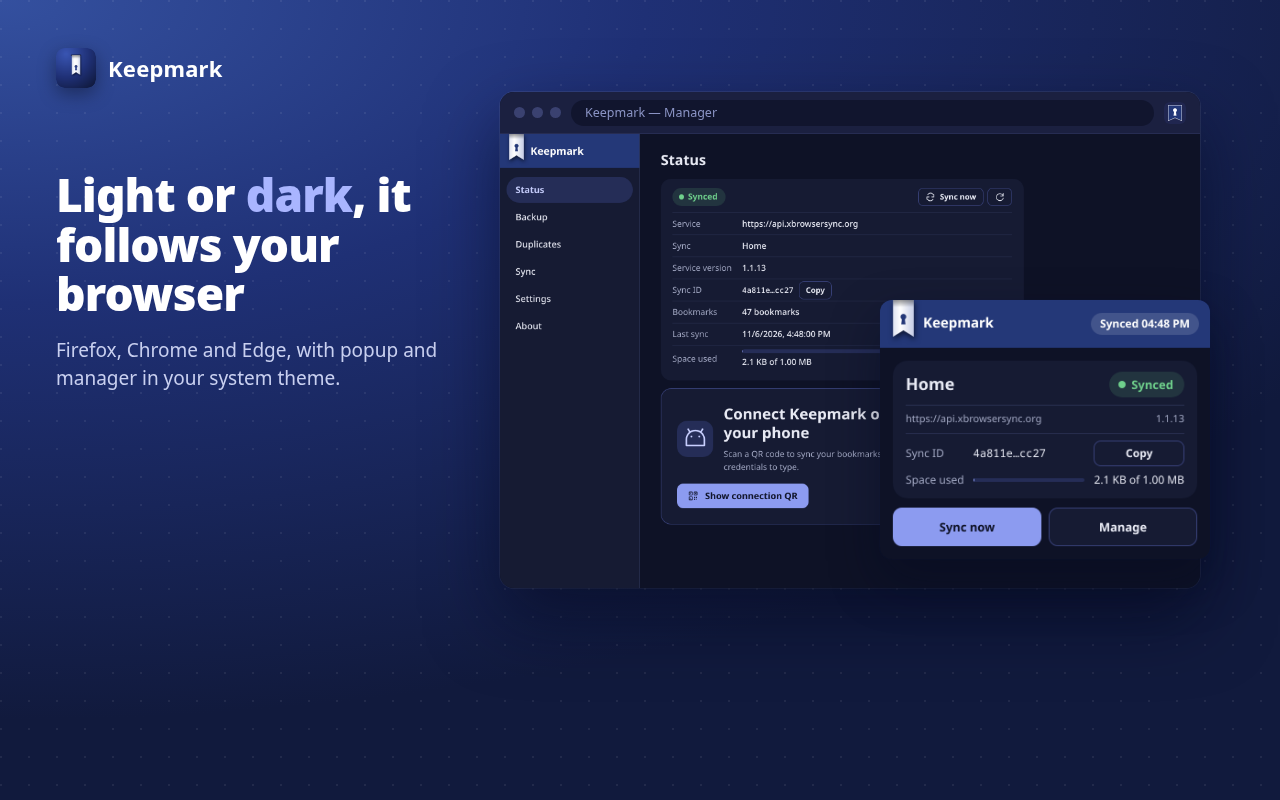
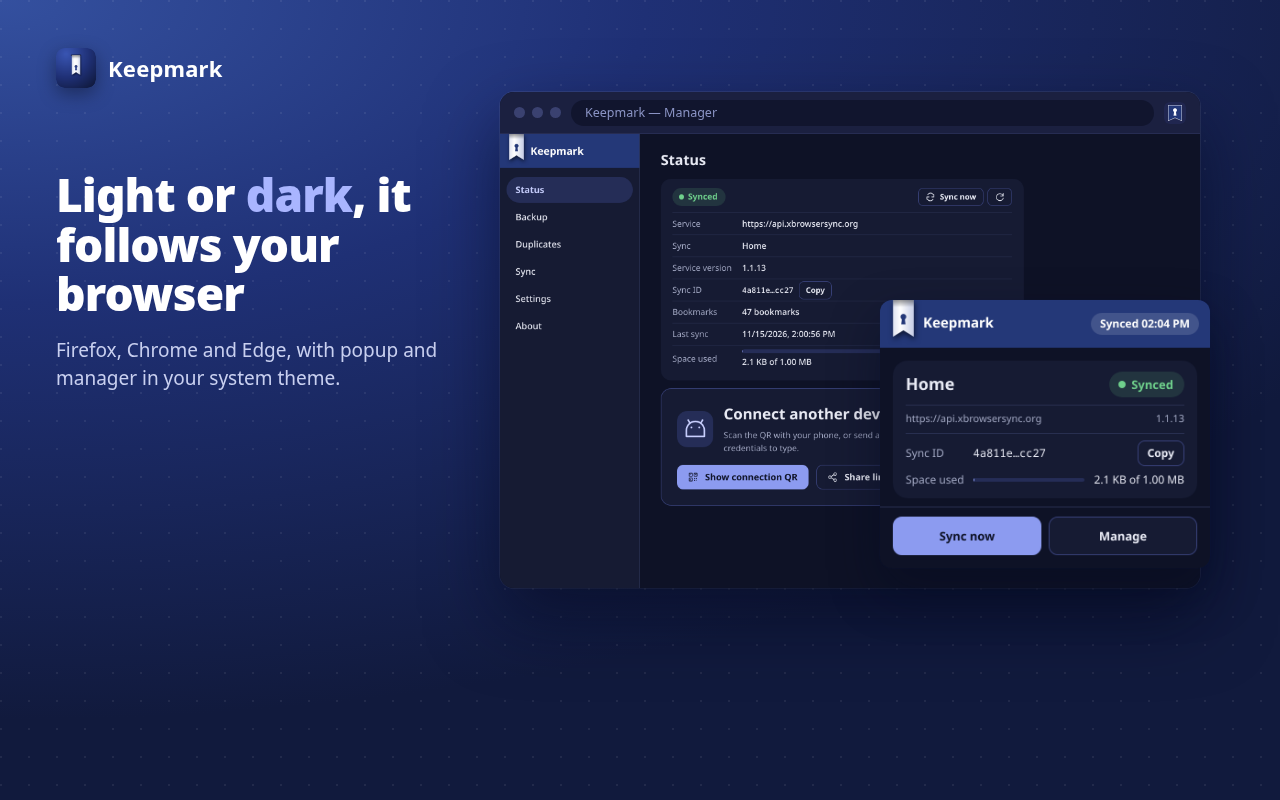
Docs and screenshots: shared links, one-time links, new connect paths; fix QR scan hint

diff --git a/src/shared/i18n/ru.ts b/src/shared/i18n/ru.ts
@@ -3,7 +3,7 @@ import type { MessageKey } from './en.js';
 // Plurals: tn() maps every non-"one" Russian form (few, many) to `_other`,
 // so `_other` texts use count-neutral phrasing ("Закладок: {count}").
 export const ru: Record<MessageKey, string> = {
-  'qr.scan': "В Keepmark для Android откройте Подключение → Существующая синхронизация → Сканировать QR из браузера.",
+  'qr.scan': "В Keepmark для Android откройте Подключение → У меня есть ссылка → Сканировать QR из браузера.",
   'qr.hidden': "QR-код скрыт.",
   'qr.title': "Подключите Keepmark на телефоне",
   'qr.explanation': "QR-код содержит сервис, ID синхронизации и ключ синхронизации (не ваш пароль). Любой, у кого есть копия, может читать и изменять эти закладки. Он скрывается через 60 секунд или когда вы покидаете этот экран. Установите блокировку синхронизации, чтобы сначала запрашивался пароль.",

diff --git a/src/shared/i18n/ja.ts b/src/shared/i18n/ja.ts
@@ -1,7 +1,7 @@
 import type { MessageKey } from './en.js';
 
 export const ja: Record<MessageKey, string> = {
-  'qr.scan': "Android 版 Keepmark で「接続」→「既存の同期」→「ブラウザーの QR をスキャン」を開いてください。",
+  'qr.scan': "Android 版 Keepmark で「接続」→「共有リンクがある」→「ブラウザーのQRを読み取る」を開いてください。",
   'qr.hidden': "QR を非表示にしました。",
   'qr.title': "スマートフォンの Keepmark を接続",
   'qr.explanation': "QR にはサービス、同期 ID、同期キー（パスワードではありません）が含まれます。コピーを持つ人はこのブックマークを読み取り、変更できます。60 秒後、またはこの画面を離れると非表示になります。先にパスワードを求めるには同期ロックを設定してください。",

diff --git a/src/shared/i18n/ro.ts b/src/shared/i18n/ro.ts
@@ -4,7 +4,7 @@ import type { MessageKey } from './en.js';
 // Plural forms: `Intl.PluralRules('ro')` gives one/few/other and the app maps
 // few+other to `_other`, so `_other` is the plain plural ("2 marcaje").
 export const ro: Record<MessageKey, string> = {
-  'qr.scan': 'În Keepmark pentru Android, deschide Conectare → Sincronizare existentă → Scanează QR din browser.',
+  'qr.scan': "În Keepmark pentru Android, deschide Conectare → Am un link partajat → Scanează QR din browser.",
   'qr.hidden': "Cod QR ascuns.",
   'qr.title': 'Conectează Keepmark pe telefon',
   'qr.explanation': "Codul QR conține serviciul, ID-ul sincronizării și cheia sincronizării (nu parola ta). Oricine are o copie poate citi și modifica aceste marcaje. Este ascuns după 60 de secunde sau când părăsești această vizualizare. Setează o blocare a sincronizării ca să se ceară mai întâi o parolă.",

diff --git a/src/shared/i18n/zh.ts b/src/shared/i18n/zh.ts
@@ -2,7 +2,7 @@ import type { MessageKey } from './en.js';
 
 // Simplified Chinese (zh-CN); also served to zh-TW/zh-HK until a Traditional catalog exists.
 export const zh: Record<MessageKey, string> = {
-  'qr.scan': "在 Android 版 Keepmark 中打开「连接」→「现有同步」→「扫描浏览器二维码」。",
+  'qr.scan': "在 Android 版 Keepmark 中打开「连接」→「我有共享链接」→「扫描浏览器中的二维码」。",
   'qr.hidden': "二维码已隐藏。",
   'qr.title': "连接手机上的 Keepmark",
   'qr.explanation': "二维码包含服务、同步 ID 和同步密钥（不是你的密码）。任何拥有副本的人都能读取和修改这些书签。60 秒后或离开此视图时会隐藏。设置同步锁可在显示前先要求输入密码。",

diff --git a/src/shared/i18n/fr.ts b/src/shared/i18n/fr.ts
@@ -1,7 +1,7 @@
 import type { MessageKey } from './en.js';
 
 export const fr: Record<MessageKey, string> = {
-  'qr.scan': "Dans Keepmark pour Android, ouvrez Connecter → Synchronisation existante → Scanner le QR du navigateur.",
+  'qr.scan': "Dans Keepmark pour Android, ouvrez Connecter → J'ai un lien partagé → Scanner le QR du navigateur.",
   'qr.hidden': "QR masqué.",
   'qr.title': "Connectez Keepmark sur votre téléphone",
   'qr.explanation': "Le QR contient le service, l'ID de synchronisation et la clé de la synchronisation (pas ton mot de passe). Quiconque en a une copie peut lire et modifier ces favoris. Il est masqué après 60 secondes ou quand tu quittes cette vue. Définis un verrou des syncs pour demander d'abord un mot de passe.",

diff --git a/src/shared/i18n/de.ts b/src/shared/i18n/de.ts
@@ -1,7 +1,7 @@
 import type { MessageKey } from './en.js';
 
 export const de: Record<MessageKey, string> = {
-  'qr.scan': "Öffne in Keepmark für Android Verbinden → Bestehende Synchronisierung → QR vom Browser scannen.",
+  'qr.scan': "Öffne in Keepmark für Android Verbinden → Ich habe einen geteilten Link → QR vom Browser scannen.",
   'qr.hidden': "QR ausgeblendet.",
   'qr.title': "Verbinde Keepmark auf deinem Smartphone",
   'qr.explanation': "Der QR enthält Dienst, Sync-ID und den Sync-Schlüssel (nicht dein Passwort). Wer eine Kopie hat, kann diese Lesezeichen lesen und ändern. Er wird nach 60 Sekunden oder beim Verlassen dieser Ansicht ausgeblendet. Richte eine Sync-Sperre ein, um vorher ein Passwort abzufragen.",

diff --git a/src/shared/i18n/es.ts b/src/shared/i18n/es.ts
@@ -1,7 +1,7 @@
 import type { MessageKey } from './en.js';
 
 export const es: Record<MessageKey, string> = {
-  'qr.scan': "En Keepmark para Android, abre Conectar → Sincronización existente → Escanear QR del navegador.",
+  'qr.scan': "En Keepmark para Android, abre Conectar → Tengo un enlace compartido → Escanear QR del navegador.",
   'qr.hidden': "QR oculto.",
   'qr.title': "Conecta Keepmark en tu teléfono",
   'qr.explanation': "El QR contiene el servicio, el ID de sincronización y la clave de la sincronización (no tu contraseña). Quien tenga una copia puede leer y cambiar estos marcadores. Se oculta tras 60 segundos o al salir de esta vista. Configura un bloqueo de sync para pedir antes una contraseña.",

diff --git a/src/shared/i18n/pt.ts b/src/shared/i18n/pt.ts
@@ -1,7 +1,7 @@
 import type { MessageKey } from './en.js';
 
 export const pt: Record<MessageKey, string> = {
-  'qr.scan': "No Keepmark para Android, abra Conectar → Sincronização existente → Ler QR do navegador.",
+  'qr.scan': "No Keepmark para Android, abra Conectar → Tenho um link compartilhado → Ler QR do navegador.",
   'qr.hidden': "QR oculto.",
   'qr.title': "Conecte o Keepmark no seu celular",
   'qr.explanation': "O QR contém o serviço, o ID de sincronização e a chave da sincronização (não a sua senha). Quem tiver uma cópia pode ler e alterar estes favoritos. Ele some após 60 segundos ou quando você sai desta tela. Defina um bloqueio de sync para pedir uma senha antes.",

diff --git a/src/shared/i18n/en.ts b/src/shared/i18n/en.ts
@@ -1,7 +1,7 @@
 // English catalog: source of truth for keys. Other languages must match
 // keys and {placeholders} exactly (tests/i18n.test.ts).
 export const en = {
-  'qr.scan': "In Keepmark for Android, open Connect → Existing sync → Scan QR from browser.",
+  'qr.scan': "In Keepmark for Android, open Connect → I have a shared link → Scan QR from browser.",
   'qr.hidden': "QR hidden.",
   'qr.title': "Connect Keepmark on your phone",
   'qr.explanation': "The QR contains your service, sync ID and the sync key (not your password). Anyone with a copy can read and change these bookmarks. It is hidden after 60 seconds or when you leave this view. Set a sync lock to ask a password first.",

diff --git a/src/shared/i18n/it.ts b/src/shared/i18n/it.ts
@@ -1,7 +1,7 @@
 import type { MessageKey } from './en.js';
 
 export const it: Record<MessageKey, string> = {
-  'qr.scan': "In Keepmark per Android, apri Collega → Sincronizzazione esistente → Scansiona QR dal browser.",
+  'qr.scan': "In Keepmark per Android, apri Collega → Ho un link condiviso → Scansiona QR dal browser.",
   'qr.hidden': "QR nascosto.",
   'qr.title': "Collega Keepmark sul tuo telefono",
   'qr.explanation': "Il QR contiene servizio, ID e chiave del sync (non la password). Chi ne ha una copia può leggere e modificare questi preferiti. Scompare dopo 60 secondi o quando lasci questa vista. Imposta un blocco sync per chiedere prima una password.",

diff --git a/README.md b/README.md
@@ -133,12 +133,12 @@ password and bookmarks, exactly one is active, and switching is a click.
 Already syncing on Android and want the phone on the same sync? The manager
 hands the credentials over in one scan, without typing them anywhere:
 
-1. In the manager, the Android card says **Connect Keepmark on your phone**.
-   Choose **Show connection QR**. The QR appears at once; if you set a sync
+1. In the manager, **Status → Connect another device**: choose **Show
+   connection QR**. The QR appears at once; if you set a sync
    lock, enter its password first.
-2. In Keepmark for Android, open **Connect → Existing sync → Scan QR from
-   browser**.
-3. Review the service the phone shows, tap **Connect**, then pick the direction
+2. In Keepmark for Android, open **Connect → I have a shared link → Scan QR
+   from browser** (**Syncs → + Add a sync** when a sync is already active).
+3. Review the service the phone shows, tap **Continue**, then pick the direction
    (keep the server copy, merge, or keep the phone's copy).
 
 The QR carries the service, the sync ID and the sync's derived key, never the
@@ -151,16 +151,28 @@ wizard the same QR button sits before the manual target credentials.
 
 ## Share a sync with a link
 
-To give someone else (or a device without a camera) access to a sync, use the
-share icon next to **Show QR** in **Sync**. After the sync lock password, if
-you set one, the manager shows a `keepmark://sync?…` link with **Copy**. The
-other person pastes it in **Existing sync** (popup) or **+ Add a sync → An
-existing sync** (manager), or in Keepmark for Android: no password to type.
+To give someone else (or a device without a camera) access to a sync, use
+**Status → Connect another device → Share link**, or the share icon next to
+**Show QR** on any row in **Sync**. After the sync lock password, if you set
+one, the manager shows a `keepmark://sync?…` link with **Copy**. The other
+person pastes it in **I have a shared link** (popup **Connect**, or manager
+**Sync → + Add a sync**), or in Keepmark for Android: no password to type. The
+summary that replaces the field names the service and sync ID the link
+brought; they cannot be edited, and **Use another link** clears it.
 
-Like the QR, the link carries the service, the sync ID and the sync key, never
-the password. Unlike the QR it does not expire: anyone holding it can read and
-change those bookmarks until the sync password is changed, so send it only to
-people you trust.
+**One-time links.** When the sync's service supports them (Keepmark sync
+service 1.2.1 or later), the link works once: choose 10 minutes or 1 hour, and
+optionally a 6-digit code to pass on separately. **Revoke link** cancels it
+before it is used. The receiver sees the service first and only **Open link**
+uses it up; after that, **Use another link** asks before dropping the key,
+because the link cannot be opened again. Other services get the lasting link
+with a notice.
+
+The lasting link, like the QR, carries the service, the sync ID and the sync
+key, never the password. Unlike the QR it does not expire: anyone holding it
+can read and change those bookmarks until the sync password is changed, so send
+it only to people you trust. A one-time link carries only a random secret: the
+key travels encrypted on the service, which cannot read it.
 
 ## Screenshots
 

diff --git a/docs/UI-TERMS.md b/docs/UI-TERMS.md
@@ -12,7 +12,7 @@ Both apps use the same words for the same things. Keep this file identical in
 | Local bookmarks / this device | The bookmarks in this browser or app | native bookmarks, local tree, local side |
 | Item(s) | Bookmarks + folders + separators (counts) | nodes |
 | Connect | Link this device to a new or existing sync | |
-| New sync / Existing sync | The two connect modes | Use existing, … here |
+| I have a shared link / I have the sync ID and password / Create a new sync | The three connect choices | Existing sync, Use existing, … here |
 | Syncs | The list of saved syncs on this device (manager Sync section, popup card) | saved syncs, saved list, registry |
 | Add a sync (`+ Add a sync`) | Link this device to a new or existing sync without losing the current one (extension: final button `Connect`, result `Sync linked`; Android: direction review with `Continue`, then `Connect and use the server copy` / `Connect and merge` / `Connect and use this device`, restating the outcome); Android offers only an existing sync while linked, the extension also creates a new sync from this browser's bookmarks | Move service, Move to another service, Switch service |
 | Activate | Make an inactive saved sync the active one; this device then shows that sync's bookmarks | Open, Load |
@@ -46,7 +46,7 @@ safety origins are gone too: those backups now read `— Sync switch`. Never cop
 that wording into new text.
 
 Confirmation buttons: `Yes, download` · `Yes, upload` · `Yes, merge` · `Yes, unlink` · `Yes, forget` · `Yes, create empty` · `Yes, unlink and keep a copy` · `Yes, change password` · `Yes, restore` · `Yes, delete` · `Yes, clear` (extension server delete: `Yes, delete for good`), always with `Cancel`.
-The two connect modes are `New sync` / `Existing sync`, shown as two cards in Android Connect; the extension's Add a sync form uses `A new sync` / `An existing sync`. While a sync is linked, Android `+ Add a sync` offers only `Existing sync`.
+Connect and `+ Add a sync` offer three choices in this order: `I have a shared link` (paste a link; Android also scans the browser QR), `I have the sync ID and password`, `Create a new sync` (cards on Android, radio options in the extension). While a sync is linked, Android `+ Add a sync` offers only the first two. After a link is read, its summary offers `Use another link` (never `Change`: the service and ID come from the link and are not editable).
 Workflow steps, buttons and implication lines: see `WORKFLOWS.md` (identical in both repos).
 Busy labels: `Checking…` · `Connecting…` · `Downloading…` · `Uploading…` · `Merging…` · `Changing…` · `Exporting…` · `Importing…`.
 Password rule text: "at least 8 characters"; mismatch: "Passwords do not match."
